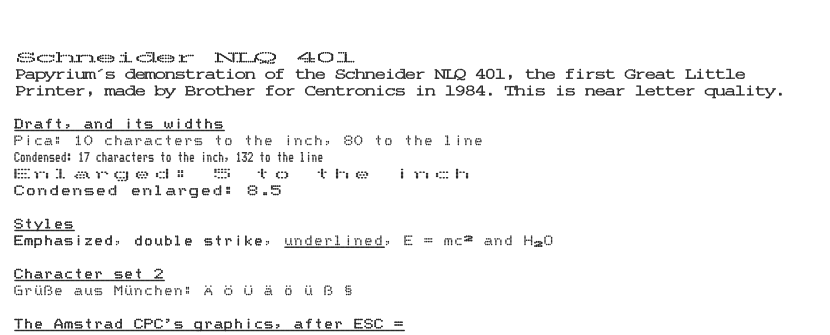
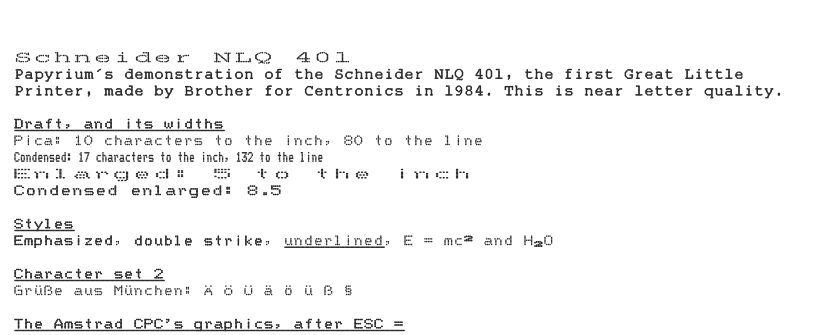
Print the GLP's NLQ on a 1/480 inch grid, and enlarged NLQ as it does
The NLQ401's print loops count an NLQ character as 48 slots holding 39
columns, eight to the carriage's 1/60 inch step: the columns are 1/480
inch apart, not 1/360 as their spacing had suggested, and a character
leaves the end of its cell blank. Enlarged, the firmware prints each
pair of NLQ columns as one, merged, 1/120 inch apart, where draft
enlarged repeats every column, as Epson's printers do.

Changed region(s): [[0.0, 0.1493, 0.9337, 0.2985]]

diff --git a/src/papyrium/language/escp/generator.py b/src/papyrium/language/escp/generator.py
@@ -66,9 +66,11 @@ class CharacterGenerator:
     of double-strike the second prints. *nlq_pass_offset*: how far below
     the first NLQ pass the second prints. *nlq_underline_second_pass*: NLQ
     underlines in its second pass, *nlq_pass_offset* below draft's
-    underline, rather than in its first. *nlq_cell_columns*: how many of
-    an NLQ font's columns span a character's cell, where the font has more
-    that reach into the next; None for all of them.
+    underline, rather than in its first. *nlq_cell_columns*: how many NLQ
+    columns span a character's cell, where it is not the font's columns,
+    which then leave some of the cell blank; None for the font's.
+    *nlq_double_width_pairs*: enlarged NLQ prints each pair of columns as
+    one, the even column's place, rather than striking every dot twice.
     """
 
     prints_adjacent_dots_once: bool = False
@@ -77,6 +79,7 @@ class CharacterGenerator:
     nlq_pass_offset: int = DOUBLE_STRIKE_OFFSET
     nlq_underline_second_pass: bool = False
     nlq_cell_columns: int | None = None
+    nlq_double_width_pairs: bool = False
 
     def nlq_columns(self, font_columns: int) -> int:
         """The NLQ columns that span a character's cell, from a font of *font_columns*."""
@@ -175,13 +178,16 @@ class CharacterGenerator:
         even rows, of the second, *nlq_pass_offset* lower, on odd rows."""
         step = width // columns
         result = []
-        for column, row in sorted(glyph.dots, key=lambda dot: (dot[1], dot[0])):
+        dots = glyph.dots
+        if style.double_width and self.nlq_double_width_pairs:
+            dots = frozenset((column - column % 2, row) for column, row in dots)
+        for column, row in sorted(dots, key=lambda dot: (dot[1], dot[0])):
             dx = (column + style.offset) * step
             if style.italic:
                 dx += self.nlq_italic_offset(glyph, row, step)
             dy = (row // 2) * pin_pitch + (row % 2) * self.nlq_pass_offset
             passes = [(dx, dy)]
-            if style.double_width:
+            if style.double_width and not self.nlq_double_width_pairs:
                 # Enlarged characters strike every dot twice, side by side.
                 passes.append((dx + step // 2, dy))
             if style.emphasized and self.nlq_emphasized:

diff --git a/tests/language/escp/test_generator.py b/tests/language/escp/test_generator.py
@@ -77,6 +77,17 @@ def test_a_draft_cell_is_twelve_columns_at_every_pitch():
 
 def test_an_nlq_fonts_columns_span_its_cell_unless_the_printer_says_otherwise():
     assert GENERATOR.nlq_columns(24) == 24
-    # The Centronics GLP's NLQ characters are 39 columns 1/360 inch apart,
-    # 36 to the pica cell, reaching into the next.
-    assert CharacterGenerator(nlq_cell_columns=36).nlq_columns(39) == 36
+    # The Centronics GLP's NLQ characters are 39 columns 1/480 inch apart,
+    # in a cell of 48.
+    assert CharacterGenerator(nlq_cell_columns=48).nlq_columns(39) == 48
+
+
+def test_enlarged_nlq_can_merge_column_pairs():
+    # The Centronics GLP prints each pair of NLQ columns as one, at twice
+    # the pitch, rather than striking every dot twice.
+    generator = CharacterGenerator(nlq_double_width_pairs=True)
+    glyph = Glyph(frozenset({(0, 0), (1, 0), (3, 2)}))
+    width = 2 * inches(1) // 10
+    dots = generator.nlq_dots(glyph, 48, width, CharacterStyle(step=0, double_width=True), PIN)
+    step = width // 48
+    assert sorted(dots) == [(0, 0), (2 * step, PIN)]

diff --git a/src/papyrium/font/glp/__init__.py b/src/papyrium/font/glp/__init__.py
@@ -53,9 +53,8 @@ class GlpNlqFont(DataDotFont):
 
     Schneider's addition to the Centronics GLP. Two passes of eight pins,
     the first's on even rows and the second's, 1/216 inch lower, on odd
-    rows: 18 rows by 39 columns 1/360 inch apart, 36 to the pica cell, so a
-    character may reach into the next. ; _ g p q y sit a pin lower, as the
-    firmware prints them. Covers ASCII and § Ä Ö Ü ä ö ü ß.
+    rows: 18 rows by 39 columns 1/480 inch apart, in a cell of 48 columns.
+    ; _ g p q y sit a pin lower, as the firmware prints them. Covers ASCII and § Ä Ö Ü ä ö ü ß.
     """
 
     font_filename = "nlq.txt"

diff --git a/src/papyrium/model/centronics_glp/__init__.py b/src/papyrium/model/centronics_glp/__init__.py
@@ -28,8 +28,9 @@ _DRAFT_COMMANDS = _COMMANDS - {"I", "x"}
 #: in place of @ [ \ ] { | } ~, as Epson's German set does.
 _CHARACTER_SETS = {"1": CharacterSet.USA, "2": CharacterSet.GERMANY}
 
-#: Near letter quality columns are 1/360 inch apart, 36 to the pica cell.
-_GENERATOR = CharacterGenerator(nlq_cell_columns=36)
+#: Near letter quality columns are 1/480 inch apart, 48 to the pica cell,
+#: of which a character's 39 print; enlarged, each pair prints as one.
+_GENERATOR = CharacterGenerator(nlq_cell_columns=48, nlq_double_width_pairs=True)
 
 
 class CentronicsGlp(PrinterModel):

diff --git a/tools/nlq401-rom/extract.py b/tools/nlq401-rom/extract.py
@@ -59,8 +59,8 @@ NLQ_HEADER = """\
 #
 # Extracted by tools/nlq401-rom/extract.py from the NLQ401's EPROM Rev 004.
 # Two passes of eight pins: even rows are the first pass's pins, odd rows
-# the second's, 1/216 inch lower. Columns are 1/360 inch apart, 36 to the
-# pica cell, so a character may reach three columns into the next. The
+# the second's, 1/216 inch lower. Columns are 1/480 inch apart, 48 to the
+# pica cell, of which a character's 39 print. The
 # firmware prints ; _ g p q y a pin lower, on rows 2-17.
 """
 

diff --git a/src/papyrium/model/centronics_glp/demo.py b/src/papyrium/model/centronics_glp/demo.py
@@ -68,7 +68,7 @@ def demo(name: str, *, nlq: bool) -> bytes:
                     _heading("Near letter quality"),
                     nlq_on,
                     line("Two passes, the second 1/216 inch below the first, on a grid"),
-                    line("of 1/360 inch: The quick brown fox jumps over the lazy dog."),
+                    line("of 1/480 inch: The quick brown fox jumps over the lazy dog."),
                     nlq_off,
                 ]
                 if nlq

diff --git a/docs/schneider-nlq401-firmware.md b/docs/schneider-nlq401-firmware.md
@@ -144,8 +144,18 @@ travel runs from its first printing character to its last.
 - Graphics characters (codes 128 and up) set VV:00 bit 5 and print in
   one direction; under NLQ they print in draft, struck twice.
 
-Still to trace: how enlarged prints near letter quality, in the column
-scheduler from $0CB9; the self test and hex dump; the head timing.
+- Printing a line ($0CCB): each character is a run of slots, 1/120 inch
+  apart in draft and 1/480 in NLQ, through the print loops at $1000
+  (rightwards) and $0D9E (leftwards), which take a glyph's columns one a
+  slot. Enlarged (C bit 0, from VV:06) alternates the slots: in draft
+  ($10A3) a column prints, then the next slot repeats it, VV:20 keeping
+  its pins, so every dot is struck twice 1/120 inch apart; in NLQ
+  ($10C9) the OR of a pair of columns, read as one word, prints in place
+  of the even one and the slots between are blank, so enlarged NLQ is
+  each pair of columns as one, 1/120 inch apart. Graphics characters
+  print a column every other slot ($10F2), on the even ones.
+
+Still to trace: the self test and hex dump, and the head's timing.
 
 ## Draft characters
 
@@ -164,9 +174,11 @@ ones, full dots 1/60 inch apart that join their neighbours.
 
 Near letter quality characters, Schneider's, are two passes of 39
 columns, 78 bytes from $194E plus 78 times the location, for 0x18 to
-0x7E, ending at the ROM's last byte ($143E). The columns are 1/360 inch
-apart, 36 to the pica cell (6 to the carriage's 1/60 inch step, as draft
-has 2), so a character may reach 3 columns into the next; the second
+0x7E, ending at the ROM's last byte ($143E). The columns are 1/480 inch
+apart, 48 to the pica cell, as the print loops count them (`LXI DE,$3027`
+at $14F0: 48 slots, 39 columns; draft's are $0C0B, 12 and 11), eight to
+the carriage's 1/60 inch step, as the NLQ timing table at $1463 has
+eight phases; the second
 pass falls 1/216 inch below the first, one step of the paper feed. They
 are `glp-nlq`. Six characters print a pin lower: `;`, `_`, `g`, `p`, `q` and `y`,
 which the routine at $08FD tests for by code, marking the character in

diff --git a/src/papyrium/font/glp/README.md b/src/papyrium/font/glp/README.md
@@ -23,8 +23,8 @@ version 16 use U+E0EF, U+E0FC and U+E0FD in the Private Use Area.
 
 glp-nlq is the Schneider NLQ401's near letter quality, Schneider's
 addition to the GLP: two passes of eight pins, the second 1/216 inch below
-the first, interleaved as 18 rows; 39 columns 1/360 inch apart, 36 to the
-pica cell, so a character may reach three columns into the next. The
+the first, interleaved as 18 rows; 39 columns 1/480 inch apart, in a
+pica cell of 48. The
 descenders sit a pin lower, as in draft. It covers ASCII and the German
 characters; the graphics print in draft.
 

diff --git a/src/papyrium/model/centronics_glp/README.md b/src/papyrium/model/centronics_glp/README.md
@@ -89,7 +89,8 @@ The options model the printers' DIP switches and paper. `centronics-glp`:
 | `graphics-font` | `glp-graphics` | The graphics characters, codes 129-255: a dot font's name or file |
 
 Near letter quality prints from the `nlq-font`, two passes 1/216 inch
-apart on a 1/360 inch grid, 36 columns to the pica cell. The graphics
+apart on a 1/480 inch grid, 48 columns to the pica cell, of which a
+character's 39 print; enlarged, it prints each pair of columns as one. The graphics
 print in draft, from the `graphics-font`, in any quality.
 
 ## Licence
